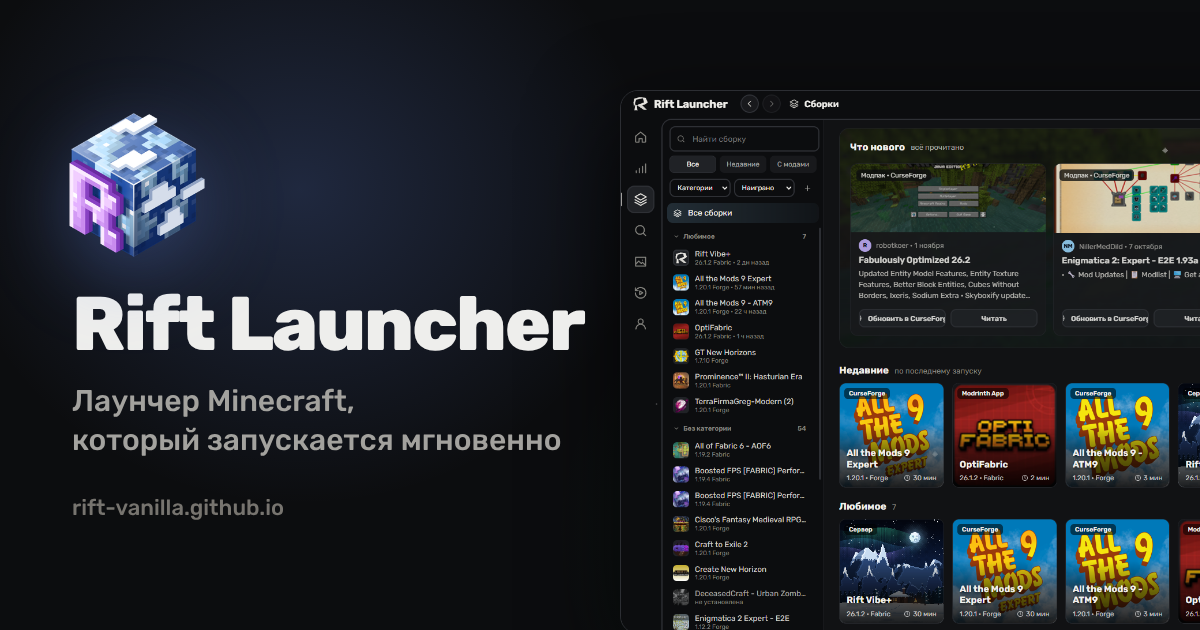
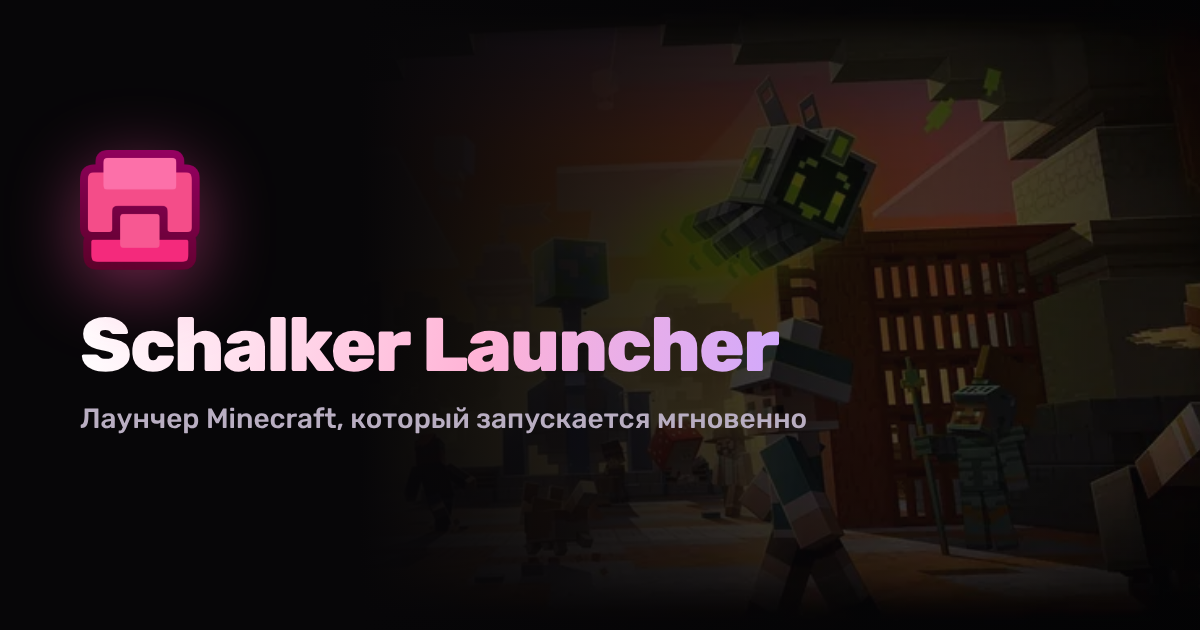
Сайт в бренде Schalker Launcher
Название, логотип и favicon шалкера, тема «Шалкер» (чёрный фон, розовое свечение,
градиенты в кнопках и заголовках), арт на первом экране, новые скриншоты и og.png.
Размеры у картинок, чтобы страница не прыгала при загрузке.

Claude-Session: https://claude.ai/code/session_018pj4H1AKEagciCfW6GmsTm

diff --git a/index.html b/index.html
@@ -3,24 +3,24 @@
 <head>
 <meta charset="utf-8">
 <meta name="viewport" content="width=device-width, initial-scale=1">
-<title>Rift Launcher — лаунчер для Майнкрафт (Minecraft)</title>
-<meta name="description" content="Rift Launcher — бесплатный лаунчер для Майнкрафт (Minecraft) на Windows. Сборки с Modrinth и CurseForge, моды, друзья, статистика, 3D-скины и повторы — в одном аккуратном окне.">
+<title>Schalker Launcher — лаунчер для Майнкрафт (Minecraft)</title>
+<meta name="description" content="Schalker Launcher — бесплатный лаунчер для Майнкрафт (Minecraft) на Windows. Сборки с Modrinth и CurseForge, моды, друзья, статистика, 3D-скины и повторы — в одном аккуратном окне.">
 <meta property="og:type" content="website">
-<meta property="og:site_name" content="Rift Launcher">
+<meta property="og:site_name" content="Schalker Launcher">
 <meta property="og:url" content="https://rift-vanilla.github.io/">
-<meta property="og:title" content="Rift Launcher — лаунчер для Майнкрафт">
+<meta property="og:title" content="Schalker Launcher — лаунчер для Майнкрафт">
 <meta property="og:description" content="Бесплатный лаунчер для Майнкрафт: сборки с Modrinth и CurseForge, друзья, статистика, 3D-скины и повторы — в одном аккуратном окне.">
 <meta property="og:image" content="https://rift-vanilla.github.io/img/og.png">
 <meta property="og:image:width" content="1200">
 <meta property="og:image:height" content="630">
-<meta property="og:image:alt" content="Rift Launcher: страница сборок">
+<meta property="og:image:alt" content="Schalker Launcher">
 <meta property="og:locale" content="ru_RU">
 <meta name="keywords" content="лаунчер майнкрафт, лаунчер minecraft, minecraft launcher, сборки майнкрафт, моды майнкрафт, modrinth, curseforge, forge, fabric, neoforge">
 <link rel="canonical" href="https://rift-vanilla.github.io/">
 <meta name="twitter:card" content="summary_large_image">
 <meta name="twitter:image" content="https://rift-vanilla.github.io/img/og.png">
 <meta name="yandex-verification" content="d1b220ef98a6cfed">
-<meta name="theme-color" content="#3DDC84">
+<meta name="theme-color" content="#070608">
 <link rel="icon" type="image/png" href="img/favicon.png">
 <style>
 @font-face{font-family:'Rubik';font-style:normal;font-display:swap;font-weight:400;src:url(fonts/rubik-cyrillic-400-normal.woff2) format('woff2');unicode-range:U+0301,U+0400-045F,U+0490-0491,U+04B0-04B1,U+2116}
@@ -31,7 +31,7 @@
 @font-face{font-family:'Rubik';font-style:normal;font-display:swap;font-weight:500;src:url(fonts/rubik-latin-500-normal.woff2) format('woff2');unicode-range:U+0000-00FF,U+0131,U+0152-0153,U+02BB-02BC,U+02C6,U+02DA,U+02DC,U+0304,U+0308,U+0329,U+2000-206F,U+20AC,U+2122,U+2191,U+2193,U+2212,U+2215,U+FEFF,U+FFFD}
 @font-face{font-family:'Rubik';font-style:normal;font-display:swap;font-weight:700;src:url(fonts/rubik-latin-700-normal.woff2) format('woff2');unicode-range:U+0000-00FF,U+0131,U+0152-0153,U+02BB-02BC,U+02C6,U+02DA,U+02DC,U+0304,U+0308,U+0329,U+2000-206F,U+20AC,U+2122,U+2191,U+2193,U+2212,U+2215,U+FEFF,U+FFFD}
 @font-face{font-family:'Rubik';font-style:normal;font-display:swap;font-weight:800;src:url(fonts/rubik-latin-800-normal.woff2) format('woff2');unicode-range:U+0000-00FF,U+0131,U+0152-0153,U+02BB-02BC,U+02C6,U+02DA,U+02DC,U+0304,U+0308,U+0329,U+2000-206F,U+20AC,U+2122,U+2191,U+2193,U+2212,U+2215,U+FEFF,U+FFFD}
-:root{--bg:#111214;--bg2:#0C0D0F;--panel:#18191C;--panel2:#202226;--line:#2C2E33;--txt:#EEEEEC;--muted:#A3A29E;--dim:#77746F;--ok:#3DDC84;--r:16px}
+:root{--bg:#0B0A0D;--bg2:#070608;--panel:#121014;--panel2:#1A171D;--line:#26222A;--txt:#EEEEEC;--muted:#A3A29E;--dim:#77746F;--ok:#FF6FB0;--g:linear-gradient(135deg,#FF5FA8,#C25BFF 55%,#8A5CFF);--gt:linear-gradient(100deg,#fff 0%,#FFB3D6 55%,#CDA8FF 100%);--r:16px}
 *{box-sizing:border-box}
 html,body{margin:0;background:var(--bg2);color:var(--txt);font-family:'Rubik',system-ui,sans-serif;-webkit-font-smoothing:antialiased}
 a{color:inherit;text-decoration:none}
@@ -52,7 +52,7 @@ nav a:hover{color:var(--txt)}
 
 /* первый экран */
 .hero{position:relative;text-align:center;padding:84px 0 0;overflow:hidden}
-.hero::before{content:'';position:absolute;left:50%;top:-180px;width:1100px;height:700px;transform:translateX(-50%);background:radial-gradient(closest-side,rgba(61,220,132,.13),transparent 70%);pointer-events:none}
+.hero::before{content:'';position:absolute;left:50%;top:-180px;width:1100px;height:700px;transform:translateX(-50%);background:radial-gradient(closest-side,rgba(255,79,163,.22),transparent 70%);pointer-events:none}
 .pill{display:inline-flex;align-items:center;gap:8px;height:32px;padding:0 14px;border-radius:99px;background:var(--panel);border:1px solid var(--line);font-size:13px;color:var(--muted)}
 .pill b{color:var(--ok);font-weight:600}
 .dot{width:7px;height:7px;border-radius:50%;background:var(--ok);box-shadow:0 0 10px var(--ok)}
@@ -107,12 +107,12 @@ h2{font-size:42px;line-height:1.1;font-weight:800;letter-spacing:-.8px;margin:12
 .log .body{padding:28px 32px}
 .log .body h4{margin:0 0 4px;font-size:22px}
 .log .body .d{color:var(--dim);font-size:13px;margin-bottom:18px}
-.tag{display:inline-block;font-size:12px;font-weight:600;padding:3px 8px;border-radius:6px;margin-right:8px;background:rgba(61,220,132,.12);color:var(--ok)}
+.tag{display:inline-block;font-size:12px;font-weight:600;padding:3px 8px;border-radius:6px;margin-right:8px;background:rgba(255,95,168,.14);color:var(--ok)}
 .tag.fix{background:rgba(255,182,92,.12);color:#FFB65C}
 .log .body ul{margin:0;padding:0;list-style:none;display:grid;gap:10px;font-size:15px;color:var(--muted)}
 
 /* низ */
-.final{margin-top:110px;text-align:center;padding:72px 32px;border-radius:24px;background:radial-gradient(ellipse at top,rgba(61,220,132,.12),transparent 60%),var(--panel);border:1px solid var(--line)}
+.final{margin-top:110px;text-align:center;padding:72px 32px;border-radius:24px;background:radial-gradient(ellipse at top,rgba(255,95,168,.14),transparent 60%),var(--panel);border:1px solid var(--line)}
 .final img{width:132px;height:132px;margin-bottom:8px;filter:drop-shadow(0 18px 40px rgba(120,170,255,.25))}
 footer{margin-top:80px;border-top:1px solid var(--line);padding:28px 0 40px;color:var(--dim);font-size:13px}
 footer .wrap{display:flex;gap:24px;align-items:center}
@@ -129,18 +129,33 @@ footer .r{margin-left:auto;display:flex;gap:20px}
   footer .wrap{flex-direction:column;align-items:flex-start;gap:10px} footer .r{margin-left:0}
 }
 @media (max-width:560px){ .nums,.grid{grid-template-columns:1fr} h1{font-size:34px} .final{padding:48px 20px} }
+
+body{background:radial-gradient(900px 420px at 0% 0%,rgba(255,79,163,.16),transparent 70%),radial-gradient(260px 900px at 0% 0%,rgba(155,92,255,.08),transparent 80%),var(--bg2)}
+header{background:rgba(7,6,8,.72);border-bottom-color:rgba(255,150,210,.12)}
+.btn.main{background:var(--g);color:#fff;box-shadow:0 12px 30px -12px rgba(255,79,163,.7),inset 0 1px 0 rgba(255,255,255,.25)}
+h1,h2,.num b{background:var(--gt);-webkit-background-clip:text;background-clip:text;color:transparent}
+h1 span{-webkit-text-fill-color:#9A8FA3}
+.kicker{background:var(--g);-webkit-background-clip:text;background-clip:text;color:transparent}
+.pill b{color:#FFB3D6}
+.hero{padding-top:0}
+.hero .art{position:absolute;inset:0 0 auto 0;height:620px;background:url(img/brand-art.webp) 62% 38%/cover no-repeat;opacity:.3;-webkit-mask:linear-gradient(#000 30%,transparent);mask:linear-gradient(#000 30%,transparent)}
+.hero .wrap{position:relative;padding-top:84px}.hero .art::after{content:"";position:absolute;inset:0;background:radial-gradient(560px 300px at 50% 52%,rgba(7,6,8,.85),transparent 75%)}
+.shot{border-color:rgba(255,150,210,.22);box-shadow:0 -20px 90px rgba(255,79,163,.18),0 -10px 60px rgba(0,0,0,.6)}
+.f .t{background:linear-gradient(135deg,rgba(255,95,168,.18),rgba(138,92,255,.16));color:#FFB3D6}
+.final{background:radial-gradient(ellipse at top,rgba(255,95,168,.18),transparent 60%),var(--panel)}
+.final img{filter:drop-shadow(0 18px 40px rgba(255,79,163,.35))}
 html{scroll-behavior:smooth} section{scroll-margin-top:72px}
 </style>
 </head>
 <body>
 <header><div class="wrap">
-  <a class="brand" href="#"><img src="img/logo.png" alt="">Rift Launcher</a>
+  <a class="brand" href="#"><img src="img/logo.png" alt="">Schalker Launcher</a>
   <nav><a href="#features">Возможности</a><a href="#changes">Изменения</a></nav>
   <a class="btn main sm dl" href="https://github.com/Rift-vanilla/launcher-files/releases/latest"><i data-i="download"></i>Скачать</a>
 </div></header>
 
-<div class="hero"><div class="wrap">
-  <span class="pill"><span class="dot"></span><b>Версия <span class="ver">2.23.0</span></b> — уже вышла</span>
+<div class="hero"><div class="art"></div><div class="wrap">
+  <span class="pill"><span class="dot"></span><b>Версия <span class="ver">2.25.1</span></b> — уже вышла</span>
   <h1>Лаунчер Minecraft,<br><span>который запускается мгновенно</span></h1>
   <p class="lead">Сборки с Modrinth и CurseForge, друзья, статистика, скины и повторы — в одном аккуратном окне.</p>
   <div class="cta">
@@ -148,14 +163,14 @@ html{scroll-behavior:smooth} section{scroll-margin-top:72px}
     <a class="btn xl" href="#features"><i data-i="spark"></i>Что умеет</a>
   </div>
   <div class="meta">Windows 10 и 11<i>•</i>64 бит<i>•</i>обновляется сам</div>
-  <div class="shot"><img src="img/home.webp" width="1920" height="1200" alt="Главная Rift Launcher"></div>
+  <div class="shot"><img src="img/home.webp" width="1920" height="1140" alt="Главная Schalker Launcher"></div>
 </div></div>
 
 <div class="wrap">
   <section id="numbers" class="numbers">
     <div class="head">
       <div class="kicker">В цифрах</div>
-      <h2>Rift Launcher сейчас</h2>
+      <h2>Schalker Launcher сейчас</h2>
       <p class="sub">Считается вживую — обновляется при каждом открытии страницы.</p>
     </div>
     <div class="nums">
@@ -192,7 +207,7 @@ html{scroll-behavior:smooth} section{scroll-margin-top:72px}
           <li><i data-i="check"></i>Не хватает мода — лаунчер подскажет, какого</li>
         </ul>
       </div>
-      <div class="pic"><img src="img/launch-error.webp" loading="lazy" alt="Окно ошибки запуска"></div>
+      <div class="pic"><img src="img/launch-error.webp" width="1280" height="760" loading="lazy" alt="Окно ошибки запуска"></div>
     </div>
 
     <div class="row rev">
@@ -205,16 +220,16 @@ html{scroll-behavior:smooth} section{scroll-margin-top:72px}
           <li><i data-i="check"></i>Профиль и статистика друзей</li>
         </ul>
       </div>
-      <div class="pic"><img src="img/stats.webp" loading="lazy" alt="Статистика"></div>
+      <div class="pic"><img src="img/stats.webp" width="1600" height="950" loading="lazy" alt="Статистика"></div>
     </div>
 
     <div class="row">
       <div class="txt">
         <div class="kicker">Скины</div>
         <h2>Скин в 3D</h2>
-        <p class="sub">Крути мышью, приближай колесом, меняй и скачивай PNG. Работает и с лицензией, и с аккаунтом Rift.</p>
+        <p class="sub">Крути мышью, приближай колесом, меняй и скачивай PNG. Работает и с лицензией, и с аккаунтом Schalker.</p>
       </div>
-      <div class="pic"><img src="img/skins.webp" loading="lazy" alt="Скины"></div>
+      <div class="pic"><img src="img/skins.webp" width="1600" height="950" loading="lazy" alt="Скины"></div>
     </div>
   </section>
 
@@ -231,13 +246,13 @@ html{scroll-behavior:smooth} section{scroll-margin-top:72px}
     <img src="img/logo.png" alt="">
     <h2>Готов играть?</h2>
     <p class="sub" style="margin:0 auto 28px">Установка за минуту. Все сборки — уже внутри.</p>
-    <a class="btn main xl dl" href="https://github.com/Rift-vanilla/launcher-files/releases/latest"><i data-i="download"></i>Скачать Rift Launcher</a>
-    <div class="meta"><span class="ver">2.23.0</span><i>•</i>Windows 10 и 11<span class="size"></span></div>
+    <a class="btn main xl dl" href="https://github.com/Rift-vanilla/launcher-files/releases/latest"><i data-i="download"></i>Скачать Schalker Launcher</a>
+    <div class="meta"><span class="ver">2.25.1</span><i>•</i>Windows 10 и 11<span class="size"></span></div>
   </div>
 </div>
 
 <footer><div class="wrap">
-  <span class="brand" style="font-size:15px"><img src="img/logo.png" alt="" style="width:20px;height:20px">Rift Launcher</span>
+  <span class="brand" style="font-size:15px"><img src="img/logo.png" alt="" style="width:20px;height:20px">Schalker Launcher</span>
   <span>Не является официальным продуктом Minecraft. Не связан с Mojang и Microsoft.</span>
   <span class="r"><a href="https://github.com/Rift-vanilla/launcher-files/releases">Все версии</a></span>
 </div></footer>

diff --git a/README.md b/README.md
@@ -1,4 +1,4 @@
-# Сайт Rift Launcher
+# Сайт Schalker Launcher
 
 Статическая страница без сборки: `index.html`, картинки в `img/`, шрифт Rubik в `fonts/`.
 
